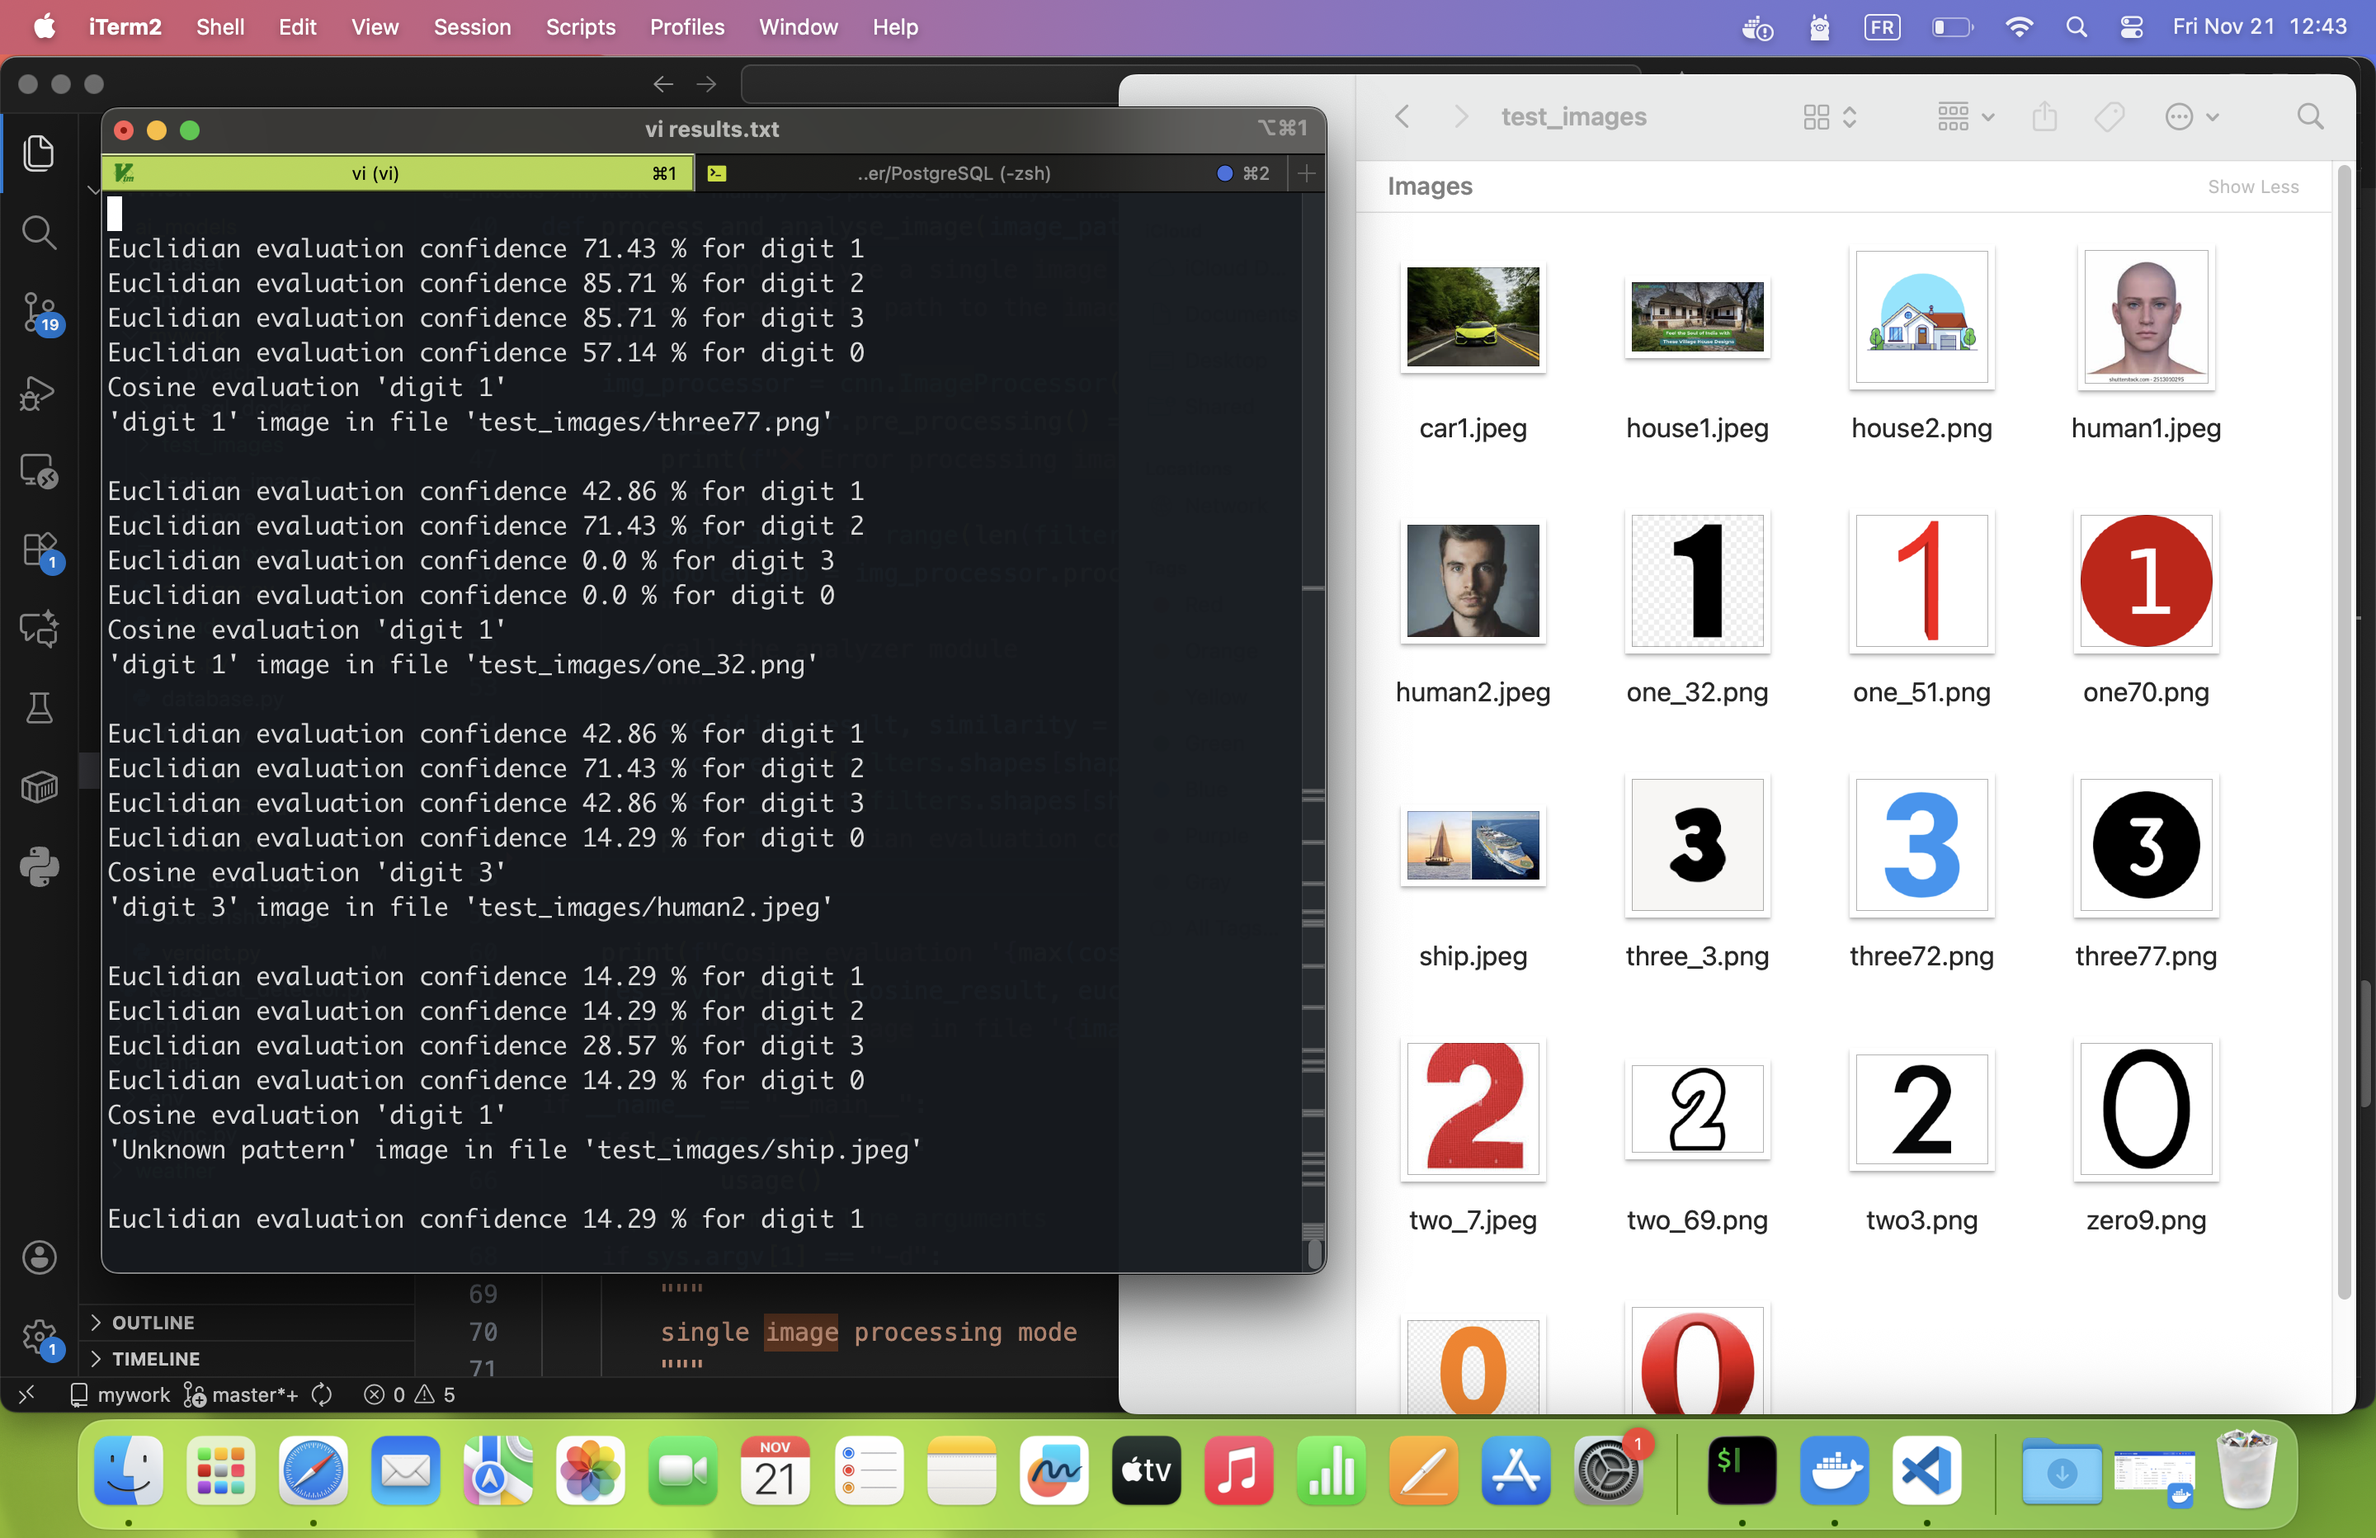
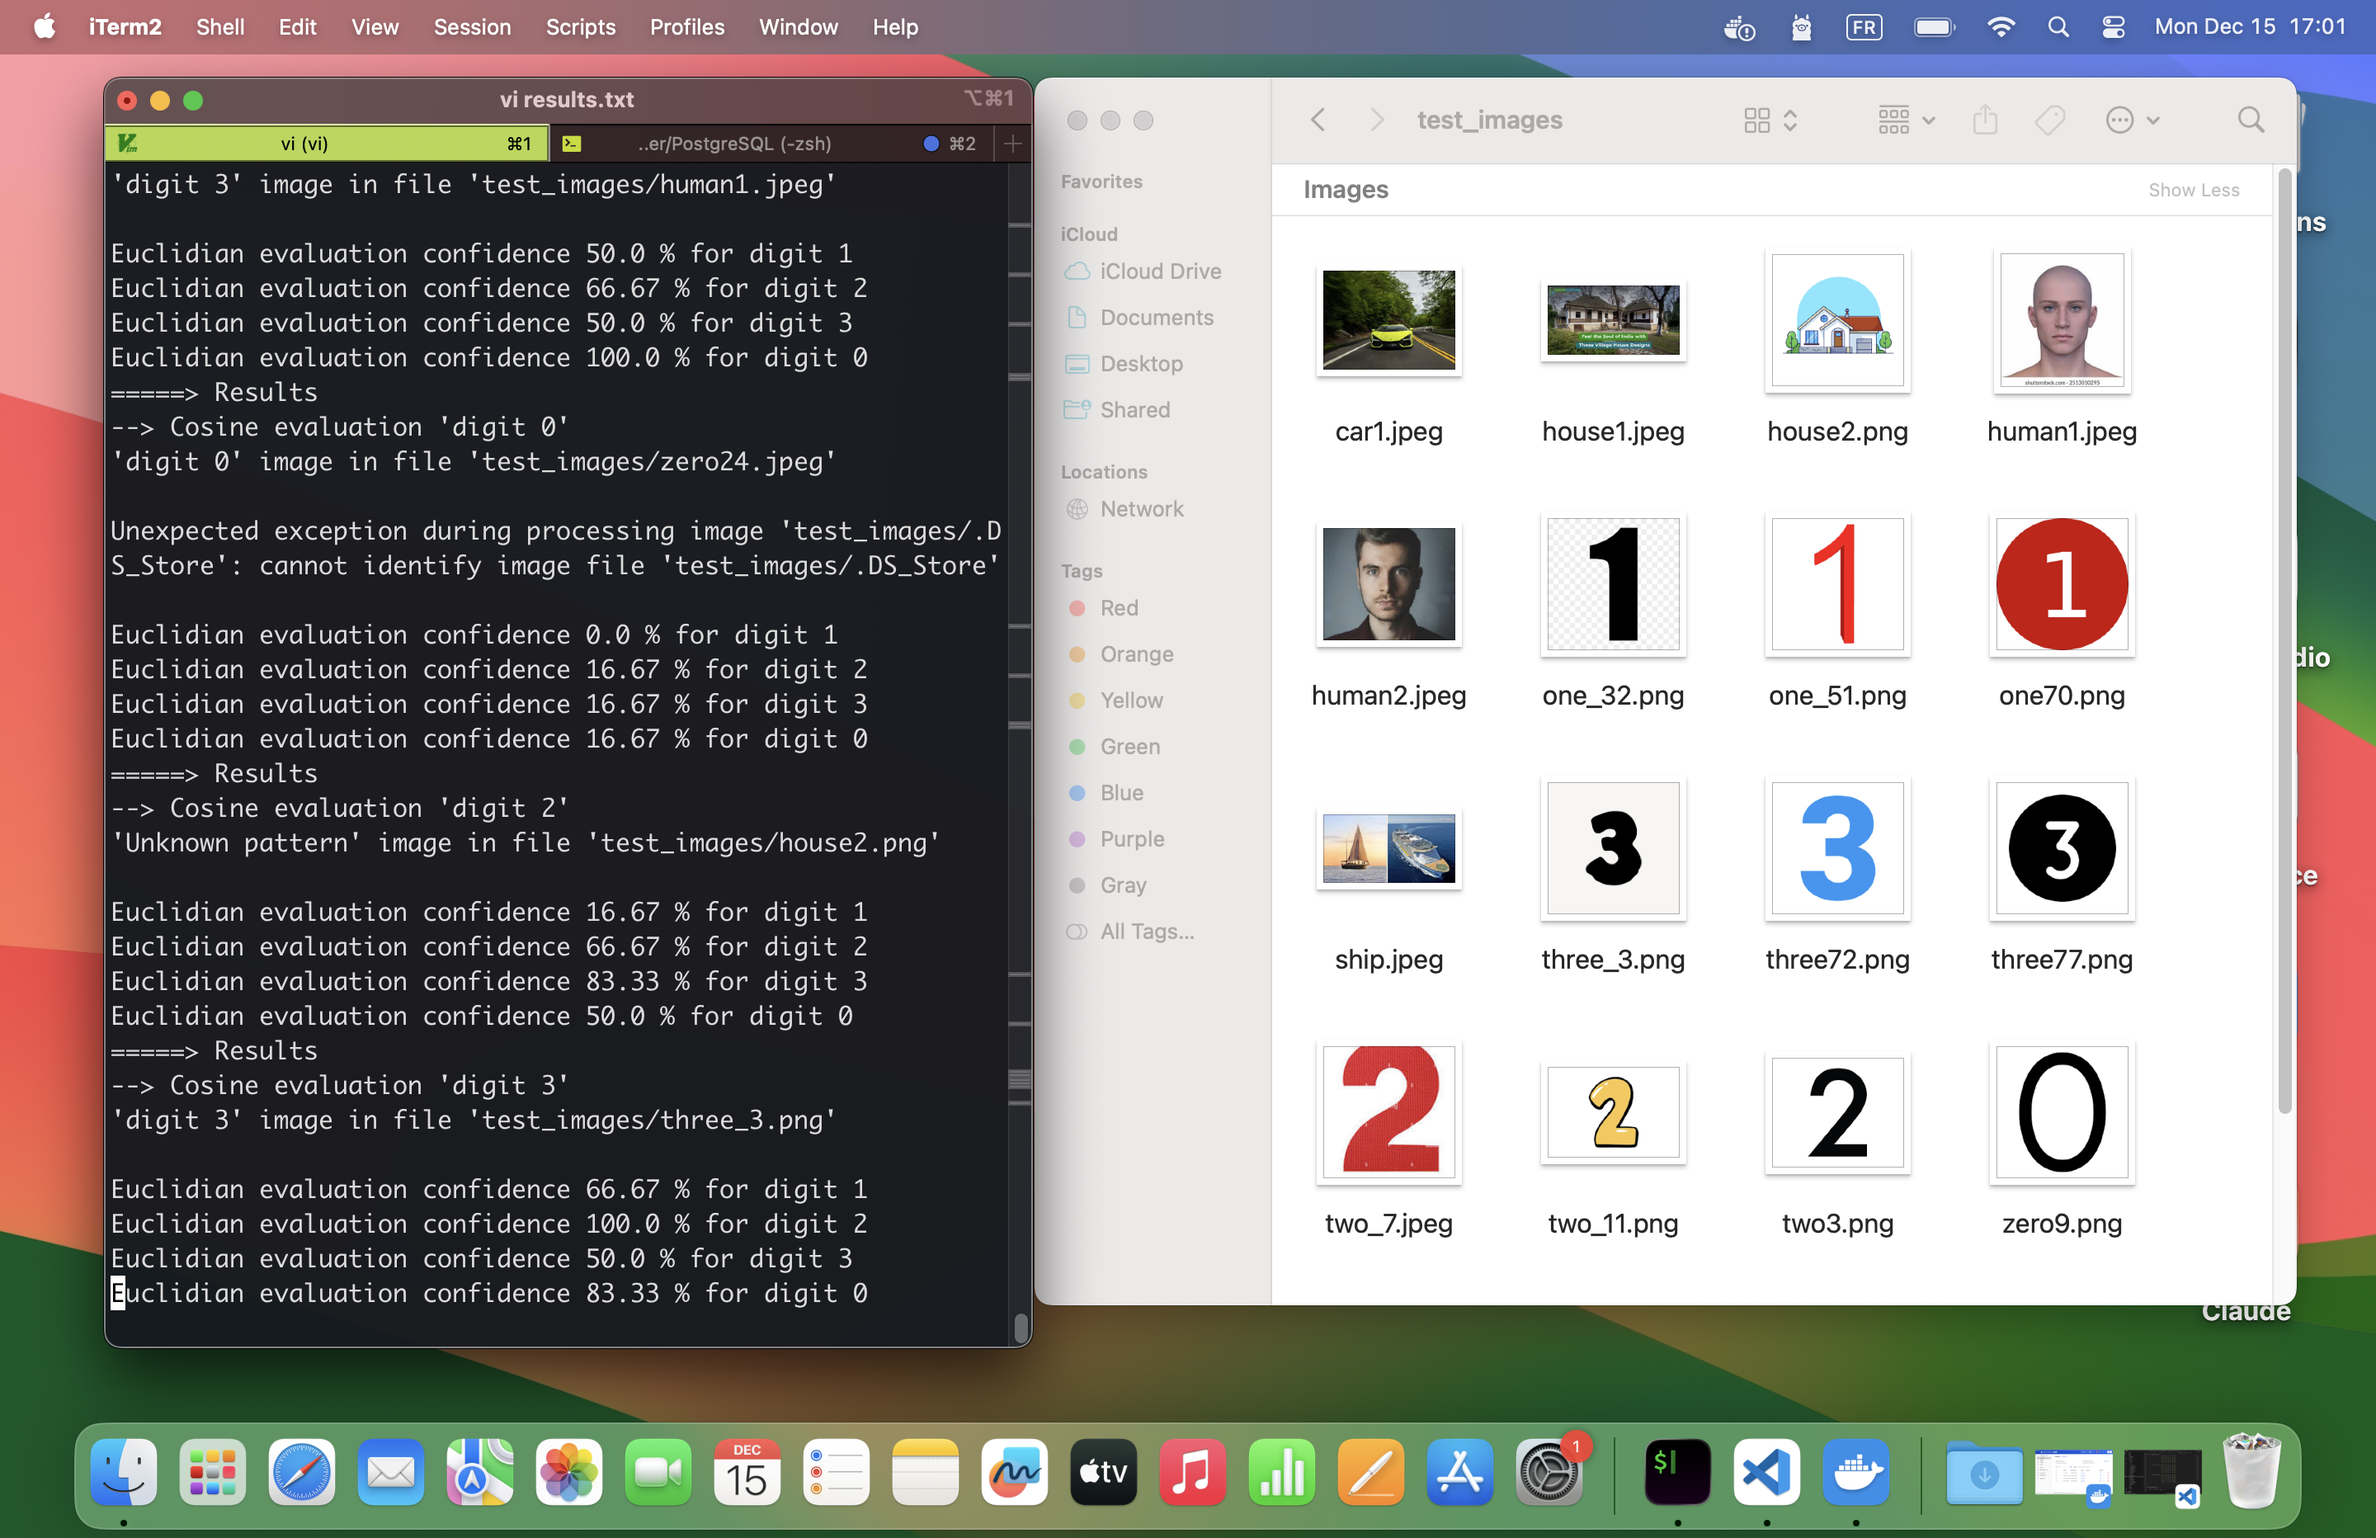
improve filter performances add a new screenshot update results.txt

diff --git a/filters.py b/filters.py
@@ -129,7 +129,7 @@ kernels_digit_three = {
                             [ -1, -1,  5,  5,  5,  5,  5],
                             [ -1, -1,  5,  5,  5,  5,  5],
                             [ -1, -1, -1,  5,  5,  5,  5],
-                            [ -1, -1, -1,  5,  5,  5,  5]],
+                            [ -1, -1, -1,  5,  5,  5, -1]],
 
         'digit_3_filter_2': [[-1, -1, -1, -1, -1, -1, -1],
                             [ -1, -1, -1, -1, -1, -1, -1],
@@ -137,17 +137,17 @@ kernels_digit_three = {
                             [ -1,  5,  5,  5,  5,  5, -1],
                             [  5,  5,  5,  5,  5,  5,  5],
                             [  5,  5,  5,  5,  5,  5,  5],
-                            [  5,  5,  5,  5,  5,  5,  5]],
+                            [  5,  5, -1, -1, -1,  5,  5]],
 
         'digit_3_filter_3': [[-1, -1, -1, -1, -1, -1, -1],
                             [ -1, -1, -1, -1, -1, -1, -1],
                             [ -1, -1, -1, -1, -1, -1,  5],
                             [ -1, -1, -1, -1, -1,  5,  5],
                             [ -1, -1,  5,  5,  5,  5,  5],
-                            [ -1, -1,  5,  5,  5,  5,  5],
-                            [ -1, -1,  5,  5,  5,  5,  5]],
+                            [ -1, -1,  5,  5,  5,  5, -1],
+                            [ -1, -1,  5,  5,  5, -1, -1]],
 
-        'digit_3_filter_4': [[-1, -1, -1,  5,  5,  5,  5],
+        'digit_3_filter_4': [[-1, -1, -1,  5,  5,  5, -1],
                             [ -1, -1, -1, -1,  5,  5,  5],
                             [ -1, -1, -1, -1,  5,  5,  5],
                             [ -1, -1, -1, -1, -1,  5,  5],
@@ -155,8 +155,8 @@ kernels_digit_three = {
                             [ -1, -1, -1, -1, -1, -1,  5],
                             [ -1, -1, -1, -1, -1, -1, -1]],
 
-        'digit_3_filter_5': [[ 5,  5,  5,  5, -1, -1, -1],
-                            [  5,  5,  5,  5, -1, -1, -1],
+        'digit_3_filter_5': [[-1, -1,  5,  5, -1, -1, -1],
+                            [ -1,  5,  5,  5, -1, -1, -1],
                             [  5,  5,  5, -1, -1, -1, -1],
                             [  5,  5, -1, -1, -1, -1, -1],
                             [  5, -1, -1, -1, -1, -1, -1],
